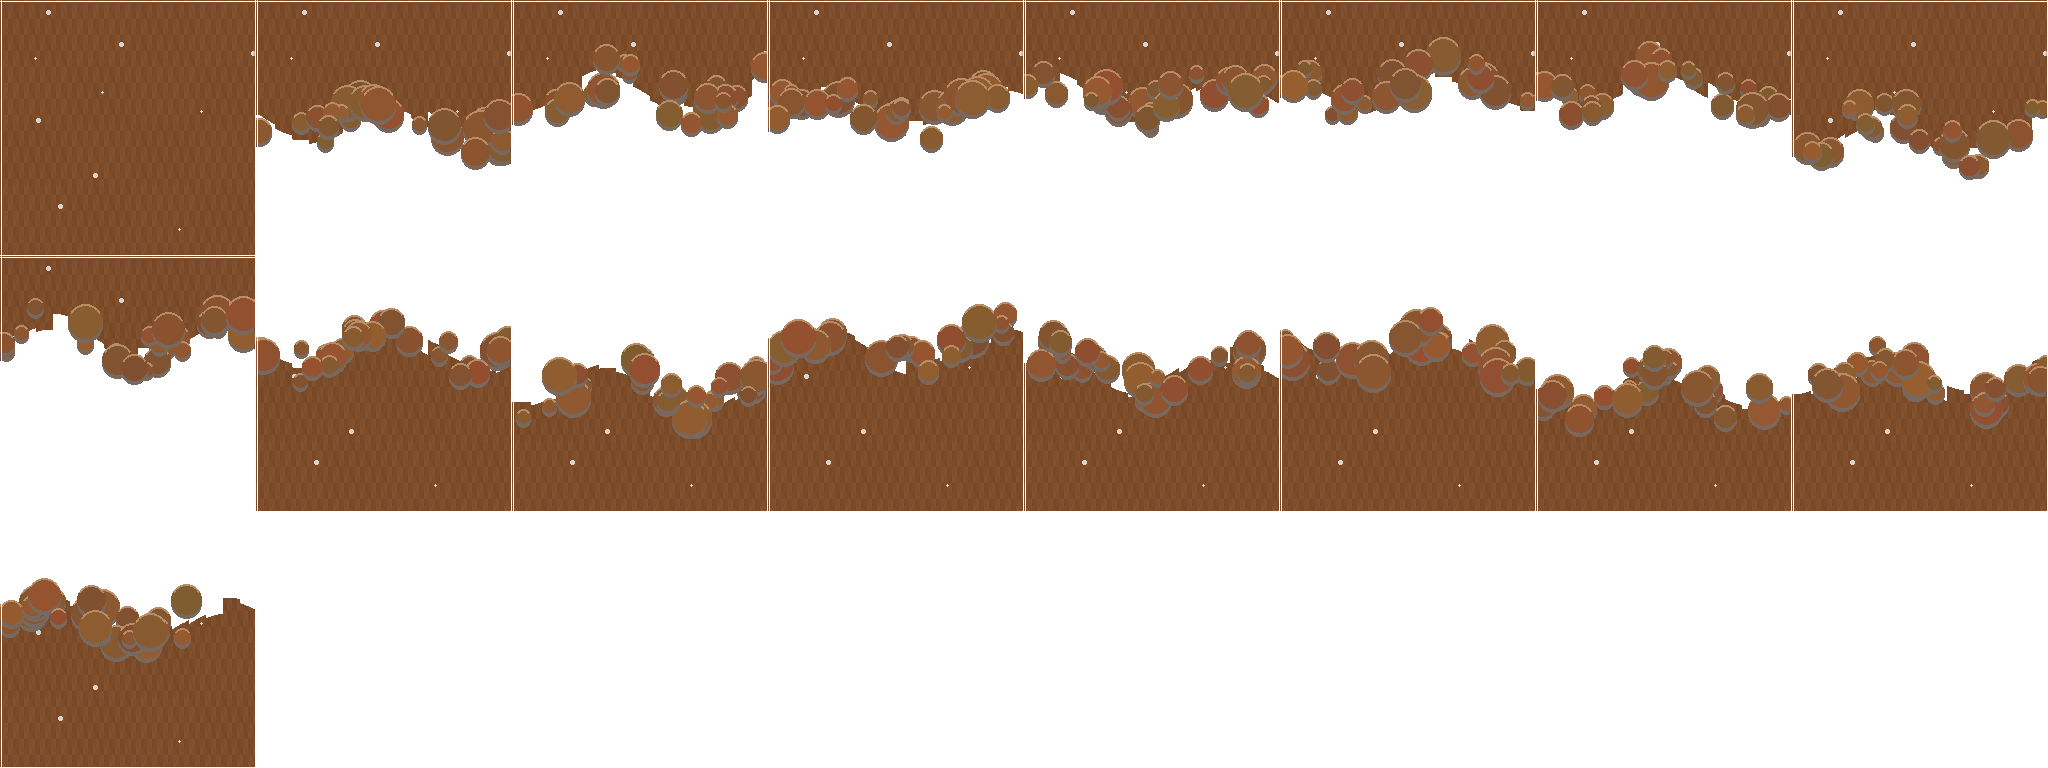
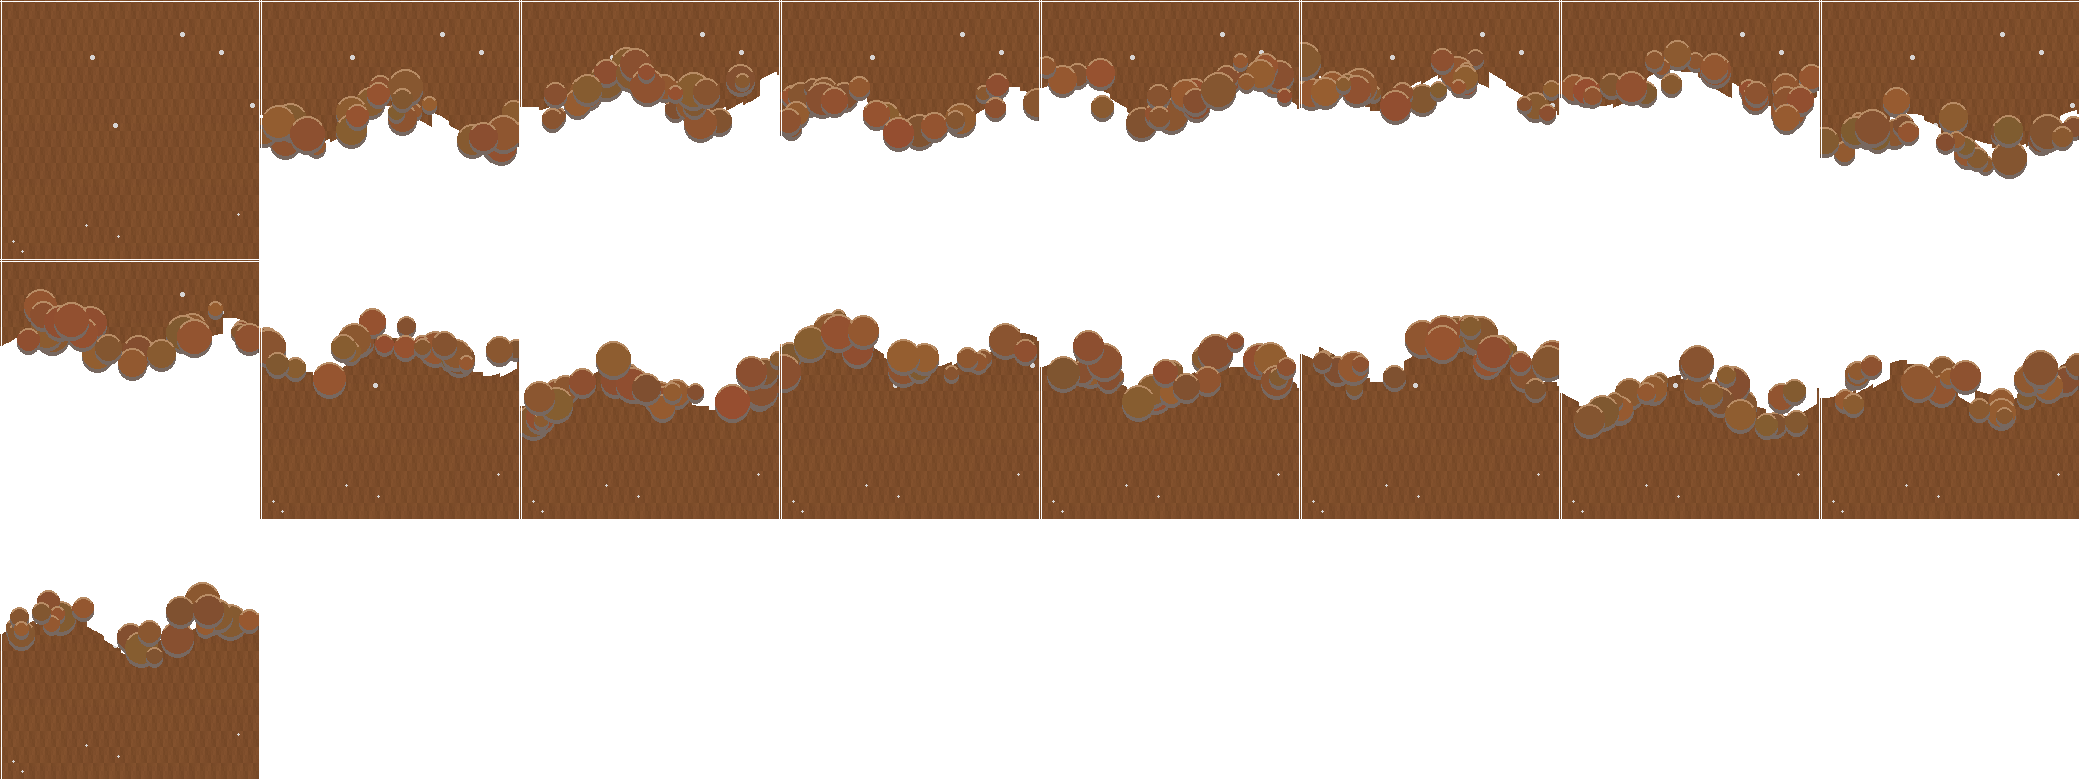
ajuste fondo

Changed region(s): [[0.0, 0.375, 1.0, 0.5625], [0.125, 0.0625, 1.0, 0.25], [0.0, 0.75, 0.125, 0.875]]

diff --git a/Juego.cpp b/Juego.cpp
@@ -21,7 +21,7 @@ Juego::Juego()
 namespace
 {
 constexpr float tamanioTileTerreno = 128.f;
-constexpr int pixelesTileTerreno = 252;
+constexpr int pixelesTileTerreno = 256;
 constexpr int margenTileTerreno = 2;
 constexpr int pasoTileTerreno = pixelesTileTerreno + margenTileTerreno * 2;
 constexpr float escalaTileTerreno = tamanioTileTerreno / pixelesTileTerreno;

diff --git a/tools/generar_atlas_tilemap_rocoso.py b/tools/generar_atlas_tilemap_rocoso.py
@@ -6,7 +6,7 @@ from PIL import Image, ImageDraw
 
 
 TILE_LOGICO = 128
-TILE = 252
+TILE = 256
 MARGEN = 2
 PASO = TILE + MARGEN * 2
 COLUMNAS_PANTALLA = 8
